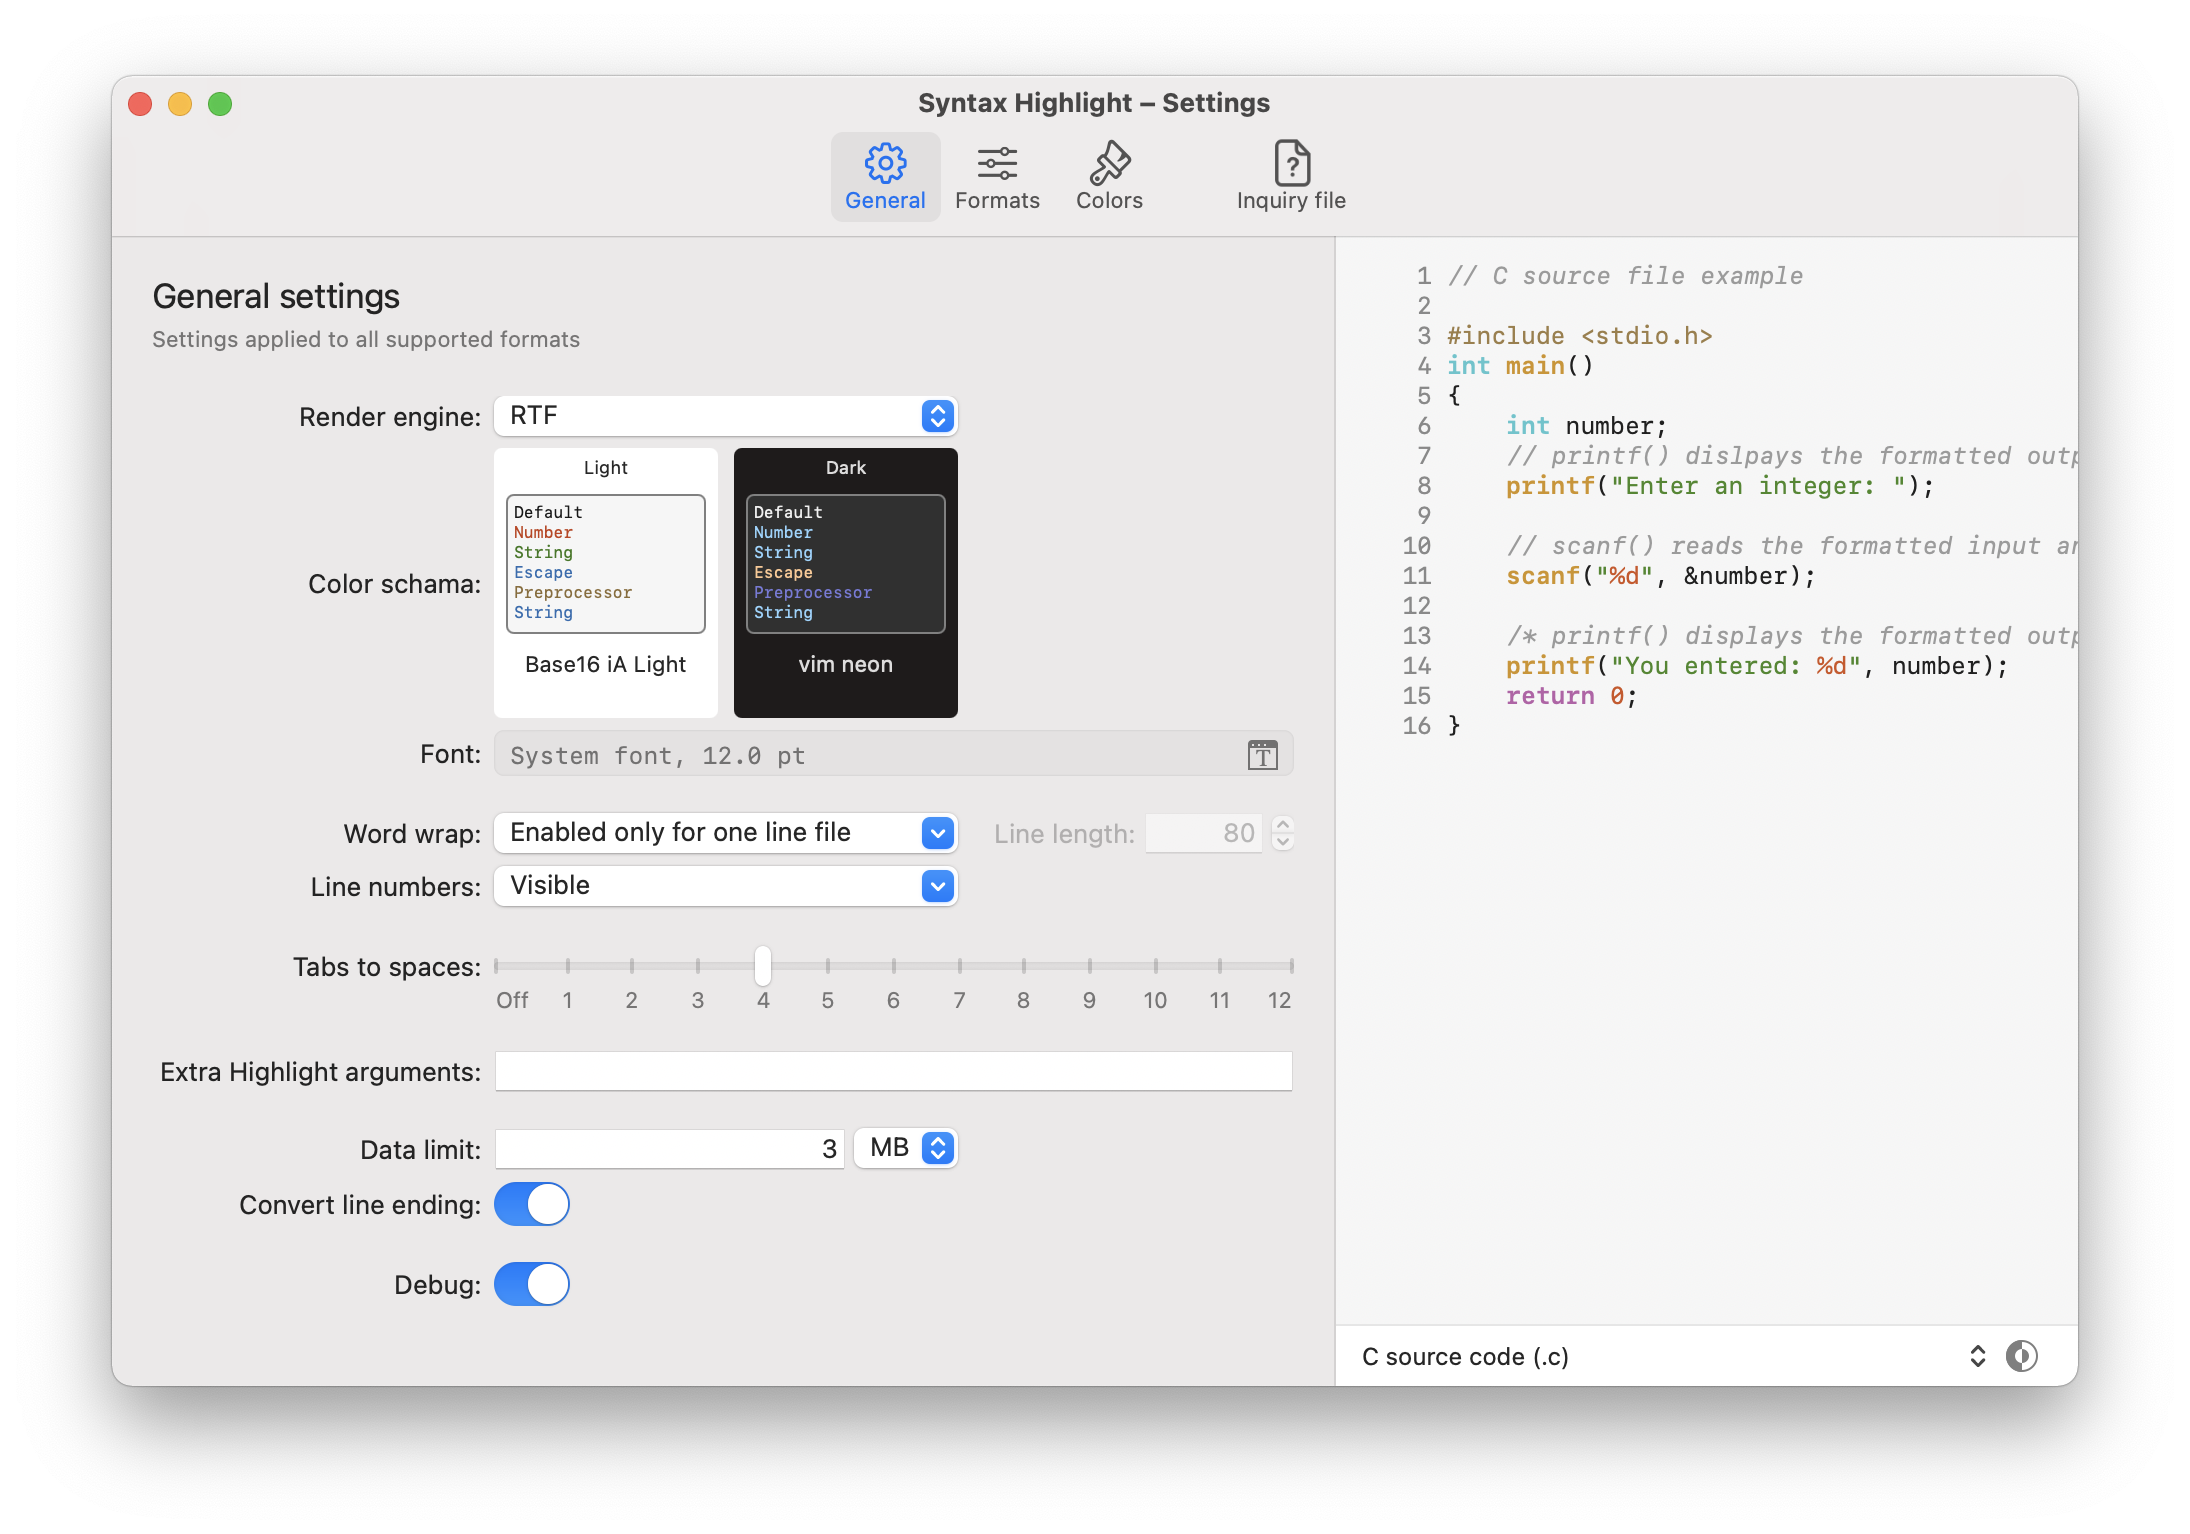
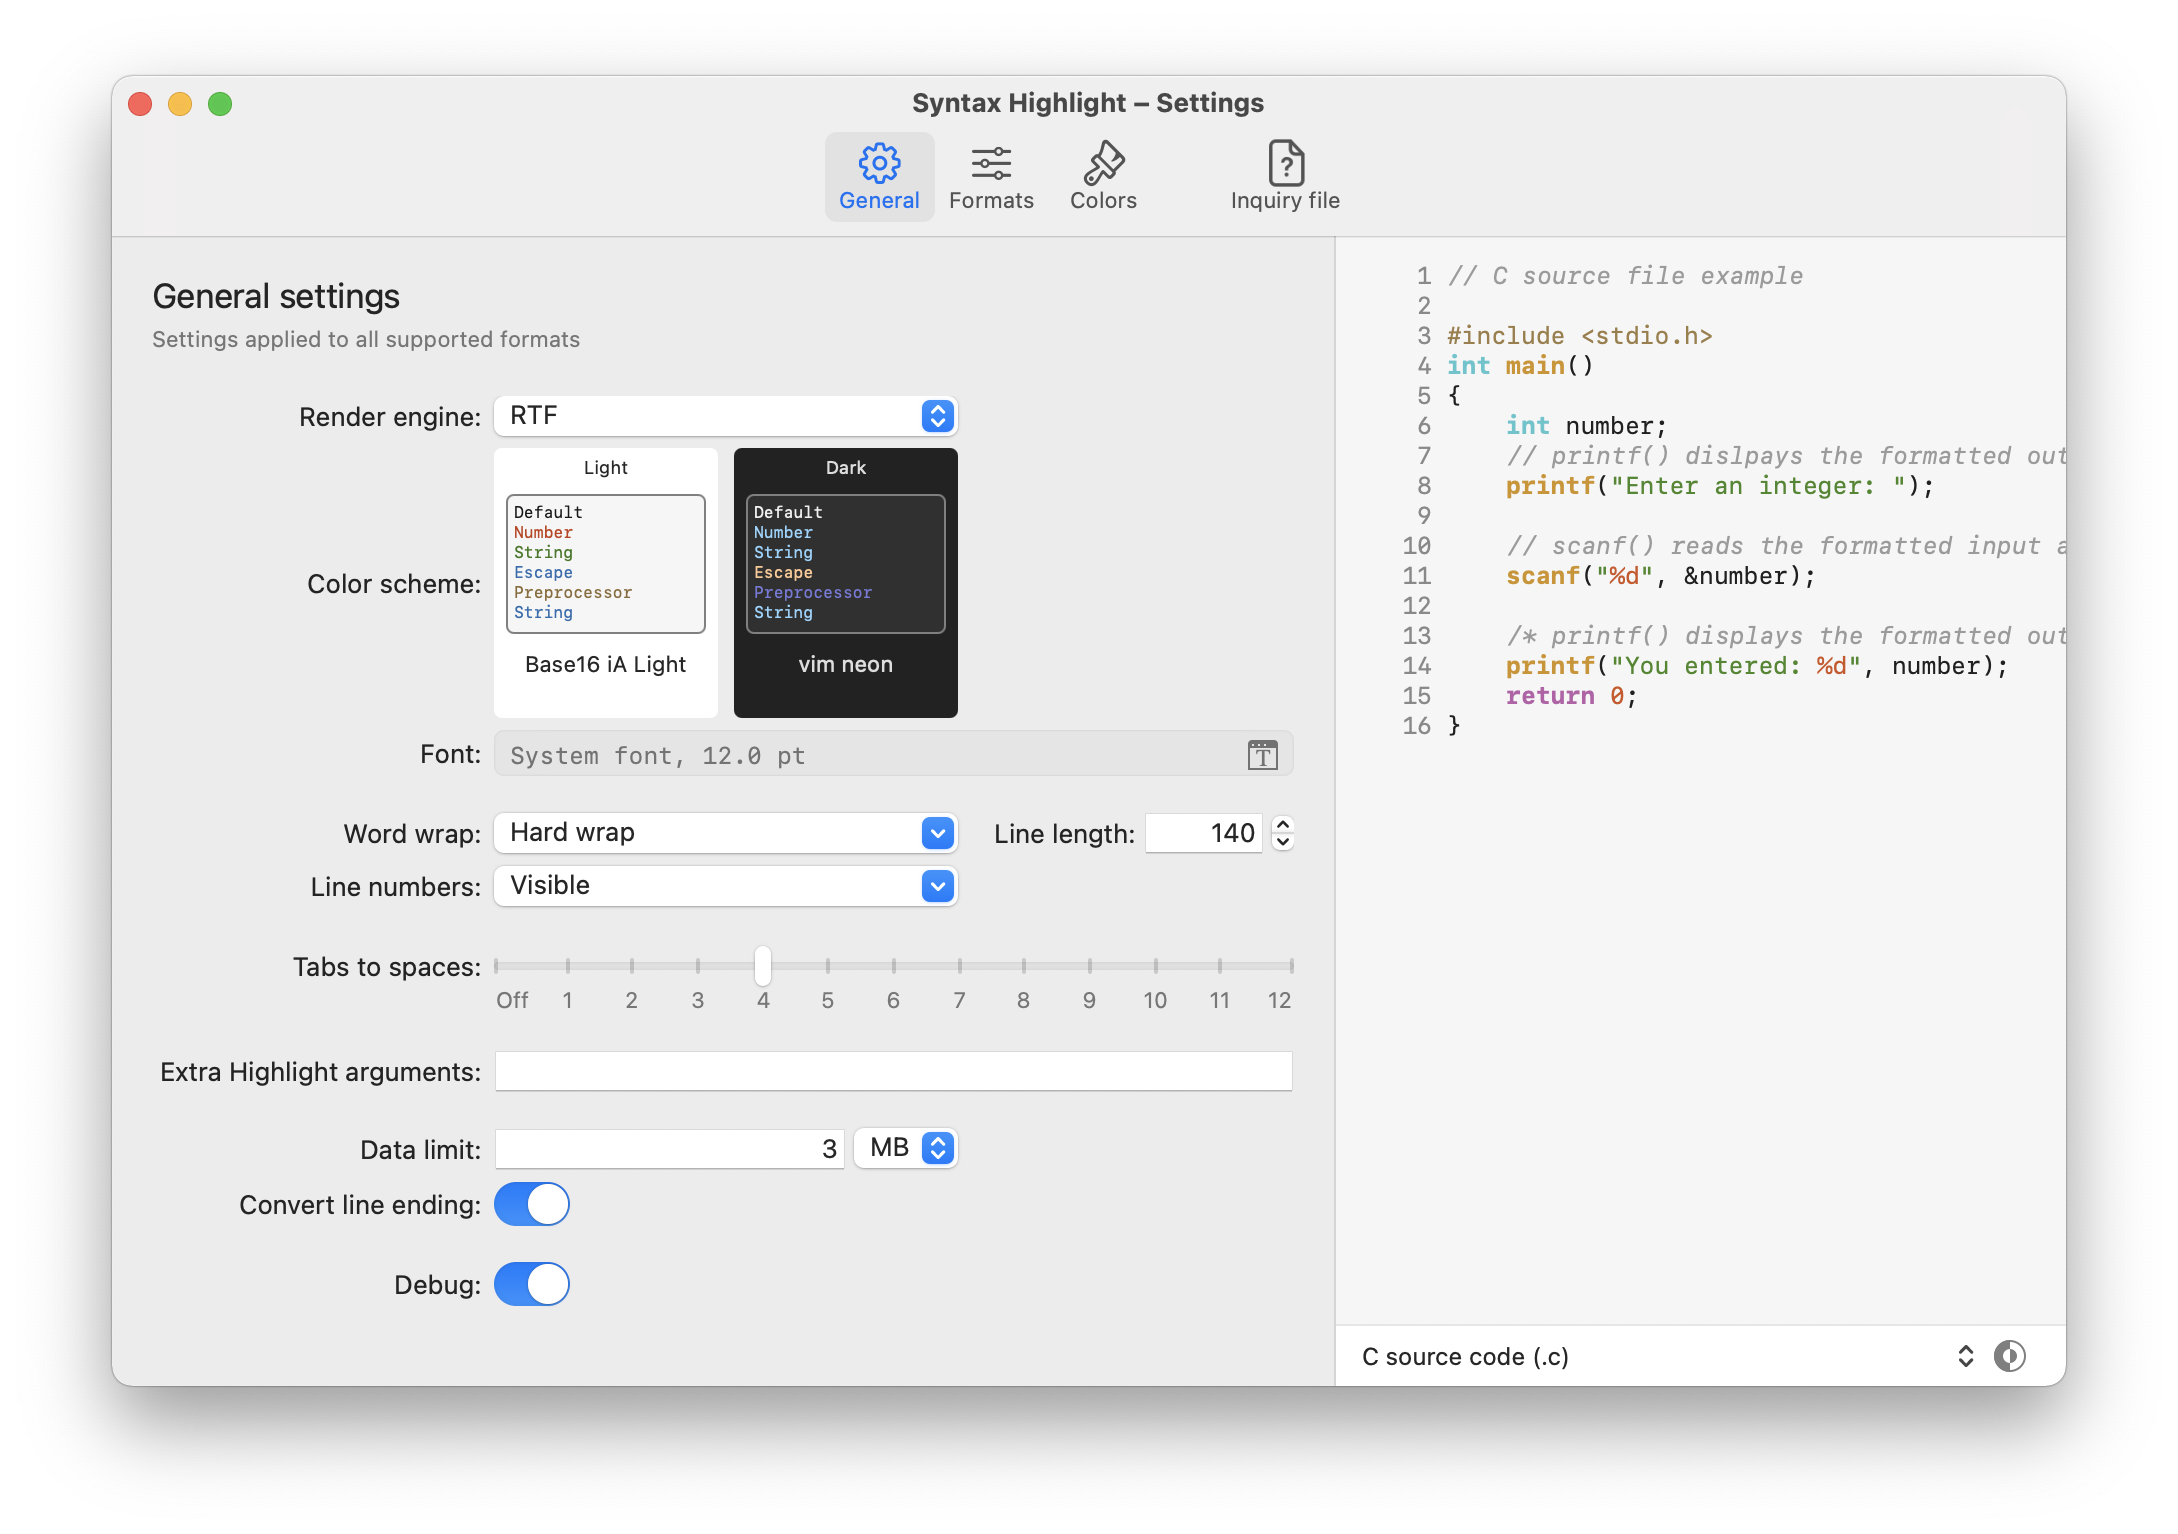
Typo fix.

diff --git a/CHANGELOG.md b/CHANGELOG.md
@@ -6,6 +6,7 @@ New features:
 - Experimental support for Racket files (`.rkt`) rendered as _`Lisp`_.
 Bugfix:
 - Error on saving custom theme.
+- Typo fix.
 
 ### 2.0.7
 Bugfix:
